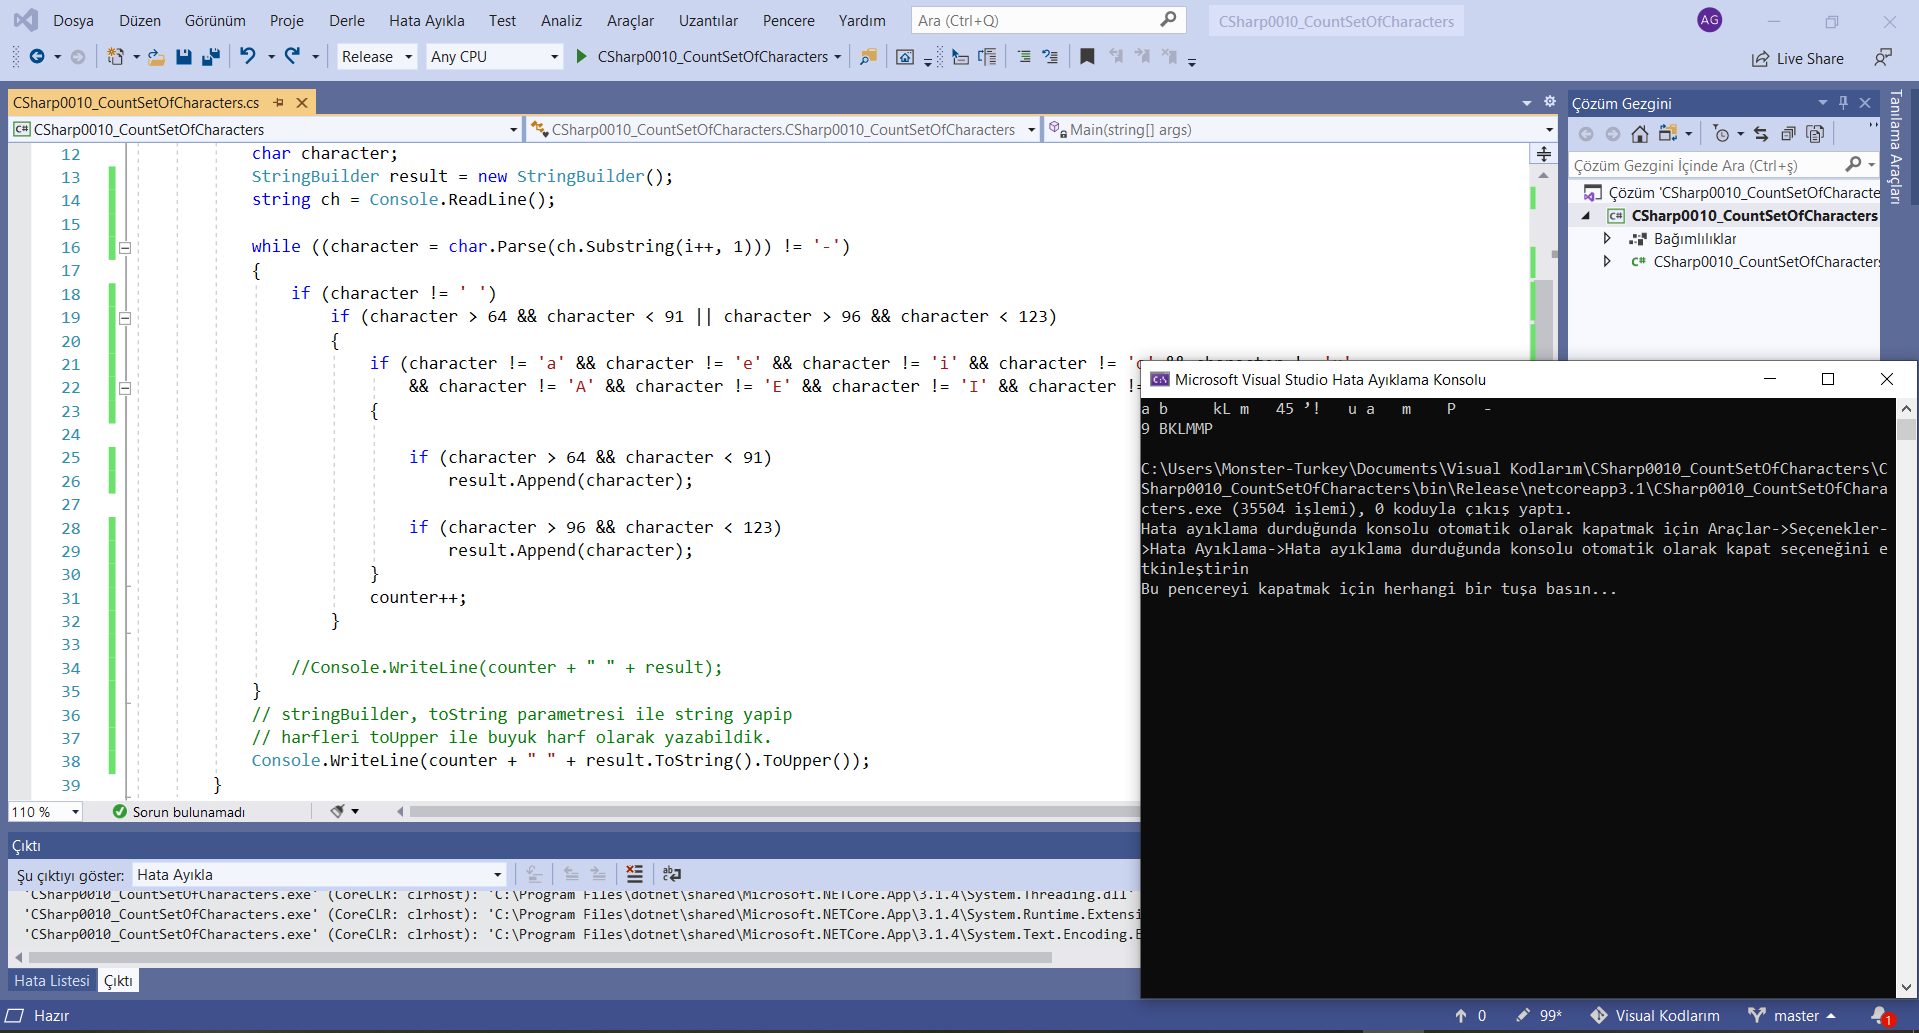
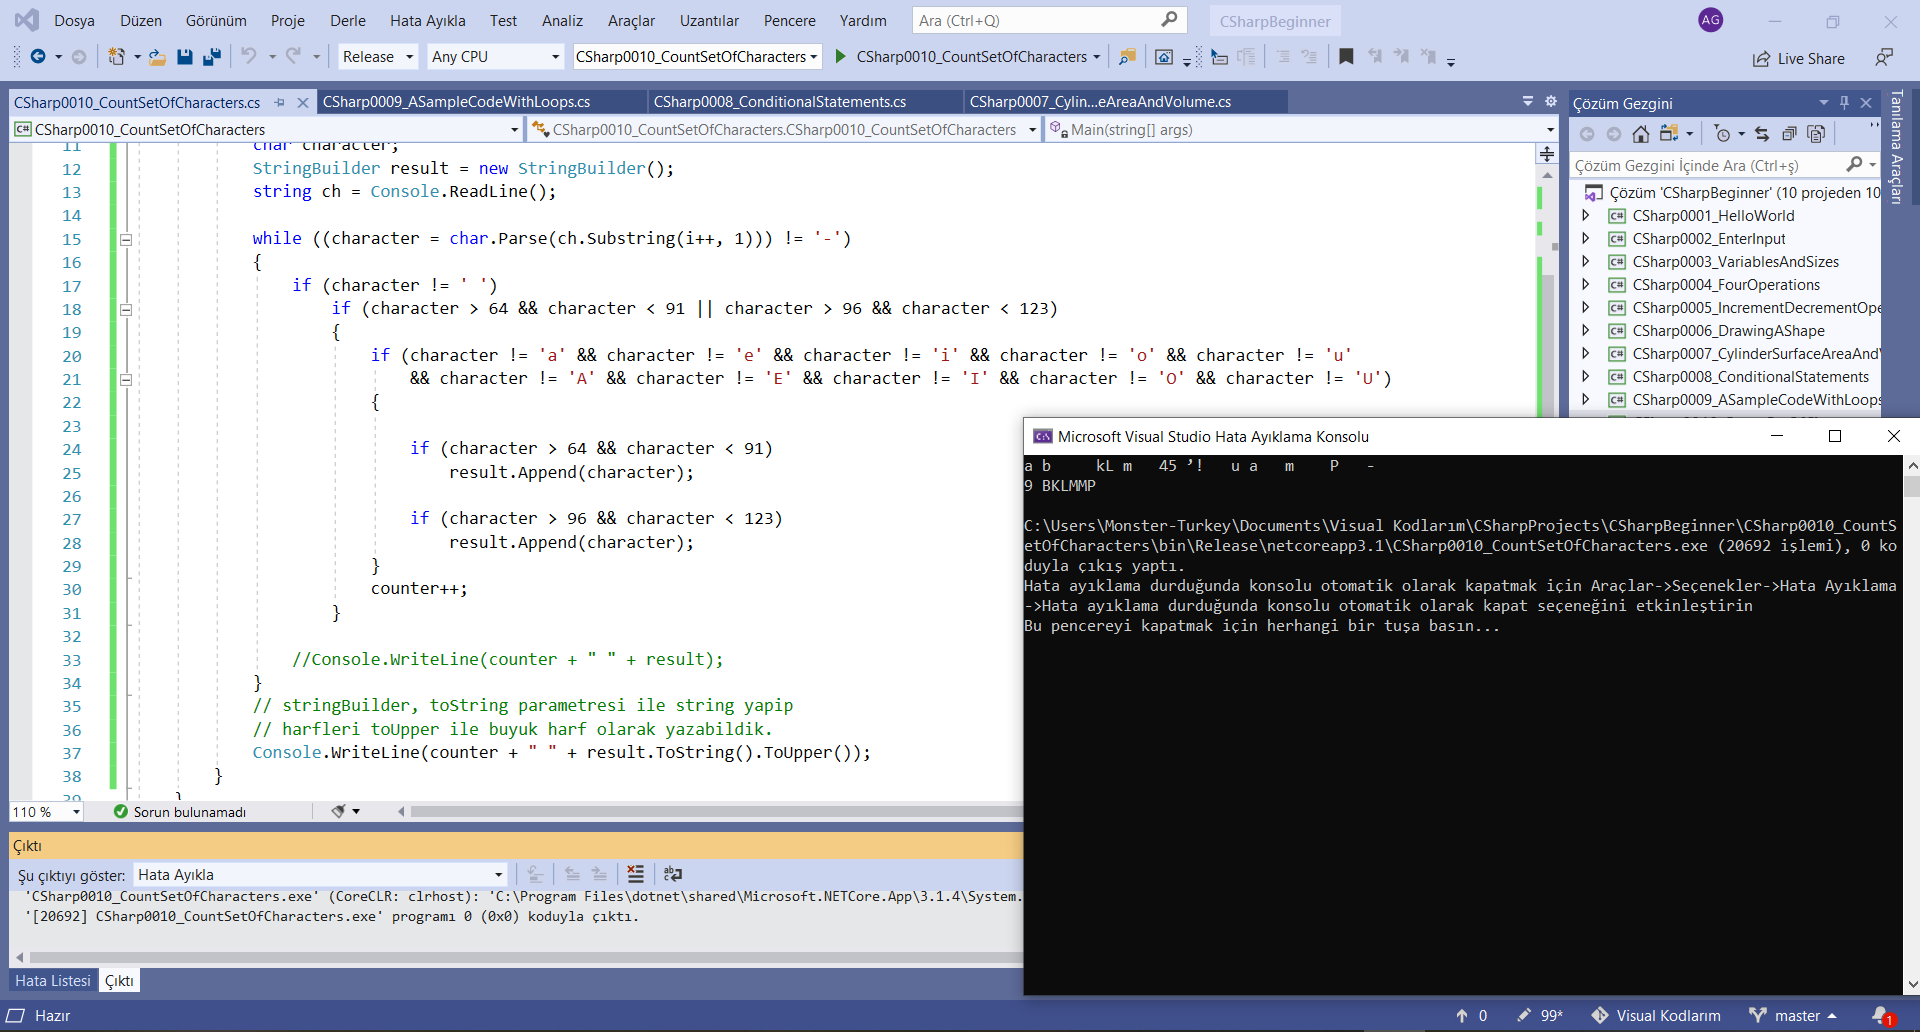
Added CSharp Code

diff --git a/CSharp0010_CountSetOfCharacters.cs b/CSharp0010_CountSetOfCharacters.cs
@@ -1,18 +1,17 @@
 using System;
-using System.Linq;
 using System.Text;
 
 namespace CSharp0010_CountSetOfCharacters
 {
     class CSharp0010_CountSetOfCharacters
     {
-		static void Main(string[] args)
-		{
+        static void Main(string[] args)
+        {
 			int counter = 0, i = 0;
 			char character;
 			StringBuilder result = new StringBuilder();
 			string ch = Console.ReadLine();
-			
+
 			while ((character = char.Parse(ch.Substring(i++, 1))) != '-')
 			{
 				if (character != ' ')
@@ -30,7 +29,7 @@ namespace CSharp0010_CountSetOfCharacters
 						}
 						counter++;
 					}
-			
+
 				//Console.WriteLine(counter + " " + result);
 			}
 			// stringBuilder, toString parametresi ile string yapip 
